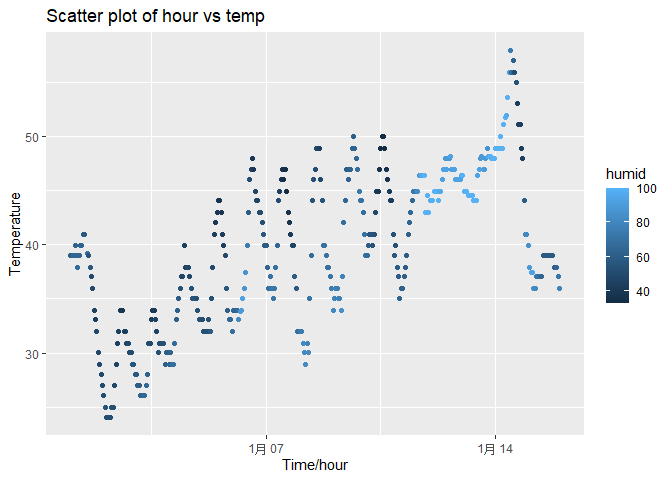
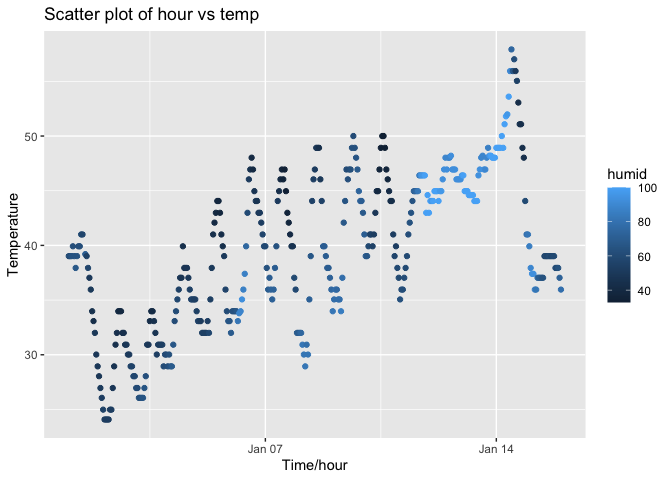
final version I guess

diff --git a/p8105_hw1_cp3384chenshuo/hw1-cp3384.md b/p8105_hw1_cp3384chenshuo/hw1-cp3384.md
@@ -5,34 +5,51 @@ Chenshuo Pan
 # Question 1
 
 ``` r
-#Load the moderndive library
+#Load the moderndive library and ggplot
+#tidyverse also being loaded but hidden.
 library(moderndive)
 library(ggplot2)
-library(tidyverse)
 ```
-
-    ## ── Attaching core tidyverse packages ──────────────────────── tidyverse 2.0.0 ──
-    ## ✔ dplyr     1.1.3     ✔ readr     2.1.4
-    ## ✔ forcats   1.0.0     ✔ stringr   1.5.0
-    ## ✔ lubridate 1.9.2     ✔ tibble    3.2.1
-    ## ✔ purrr     1.0.2     ✔ tidyr     1.3.0
-    ## ── Conflicts ────────────────────────────────────────── tidyverse_conflicts() ──
-    ## ✖ dplyr::filter() masks stats::filter()
-    ## ✖ dplyr::lag()    masks stats::lag()
-    ## ℹ Use the conflicted package (<http://conflicted.r-lib.org/>) to force all conflicts to become errors
 
 ``` r
 #load dataset
 data("early_january_weather")
 ```
 
-*Answer*: This is a data set describing the weather at Newark Airport
-for each time period in January 2013. Specific variables include:origin,
-year, month, day, hour, temp, dewp, humid, wind_dir, wind_speed,
-wind_gust, precip, pressure, visib, time_hour
+*Answer*:
+
+This is a data set describing the weather at Newark Airport for each
+time period in January 2013. Specific variables include:origin, year,
+month, day, hour, temp, dewp, humid, wind_dir, wind_speed, wind_gust,
+precip, pressure, visib, time_hour
+
+For Those variables:
+
+**origin**: Weather station. character variables
+
+**year, month, day, hour** :Time of recording. Numeric variables
+
+**temp, dewp** :Temperature and dewpoint in F. Numeric variables
+
+**humid**:Relative humidity. Numeric variables
+
+**wind_dir** wind_speed, wind_gust :Wind direction (in degrees), speed
+and gust speed (in mph). Numeric variables
+
+**precip**:Precipitation, in inches. Numeric variables
+
+**pressure** :Sea level pressure in millibars. Numeric variables
+
+**visib** :Visibility in miles. Numeric variables
+
+**time_hour** :Date and hour of the recording as a POSIXct date. time
+variables
+
+(Above information comes from the official description of
+dataset`??early_january_weather`)
 
 This is a dataset has 358 rows, and 15 columns. The average temperature
-in January is\`r mean(early_january_weather\$temp)
+in January is 39.5821229
 
 ``` r
 #make hour vs temp scatter plot
@@ -51,6 +68,12 @@ ggsave(filename = ("./scatterplotQ1.png"))
 
     ## Saving 7 x 5 in image
 
+*Answer*: Generally speaking, in January, the overall temperature shows
+an increasing trend from the 1st to the 15th. What’s more, the image
+shows a rising fluctuation, so there is an obvious temperature
+difference between morning and evening every day. The temperature in the
+morning is higher than that in the evening.
+
 # Question 2
 
 ``` r
@@ -59,7 +82,7 @@ set.seed(666)
 
 #Create a random sample of size 10 from a standard Normal distribution
 
-random_sample <- rnorm(10)
+random_sample <- rnorm(10,mean = 0,sd =1)
 
 #Create a logical vector indicating whether elements of the sample are greater than 0
 
@@ -116,8 +139,8 @@ mean(pull(Desired_dataframe,logical_sample))
 mean(pull(Desired_dataframe,character_sample))
 ```
 
-    ## Warning in mean.default(pull(Desired_dataframe, character_sample)):
-    ## 参数不是数值也不是逻辑值：回覆NA
+    ## Warning in mean.default(pull(Desired_dataframe, character_sample)): argument is
+    ## not numeric or logical: returning NA
 
     ## [1] NA
 
@@ -126,8 +149,8 @@ mean(pull(Desired_dataframe,character_sample))
 mean(pull(Desired_dataframe,factor_sample))
 ```
 
-    ## Warning in mean.default(pull(Desired_dataframe, factor_sample)):
-    ## 参数不是数值也不是逻辑值：回覆NA
+    ## Warning in mean.default(pull(Desired_dataframe, factor_sample)): argument is
+    ## not numeric or logical: returning NA
 
     ## [1] NA
 
@@ -136,6 +159,7 @@ values, True is 1 and False is 0. Other variables such as factor and
 character cannot calculate mean.
 
 ``` r
+#convert different variables to numeric
 as.numeric(pull(Desired_dataframe,factor_sample))
 as.numeric(pull(Desired_dataframe,character_sample))
 as.numeric(pull(Desired_dataframe,logical_sample))
@@ -143,7 +167,20 @@ as.numeric(pull(Desired_dataframe,logical_sample))
 
 *Answer*: The factor variables will be converted to numbers
 corresponding to the levels. For example, in my data frame, first is
-converted to 1, second is converted to 2…. This function cannot be used
-with characters variable. True in the logical variable is converted to 1
-and False is converted to 0.This helps me explain why logistic variables
-have averages, but factor variables don’t.
+converted to 1, second is converted to 2….Because the factor variable
+has finite levels, R will map each category to an integer value, which
+is why this equation is useful.
+
+True in the logical variable is converted to 1 and False is converted to
+0.Because such hidden conversions are allowed in R. And most languages
+define logical truth and logical falsehood as 1 and 0 respectively.
+
+as.numeric() function cannot be used with characters variable.Because
+character variables cannot be efficiently converted to numbers in R,
+this equation is not formulated to convert characters.
+
+After reading `??as.numeric()` I understand how this equation works for
+different data types, and I also know which parameters can be used to
+mean. It is worth noting that for the factor variable, we need to
+convert it into a numerical value before we can calculate the average.
+It is invalid to use `mean()` directly.
